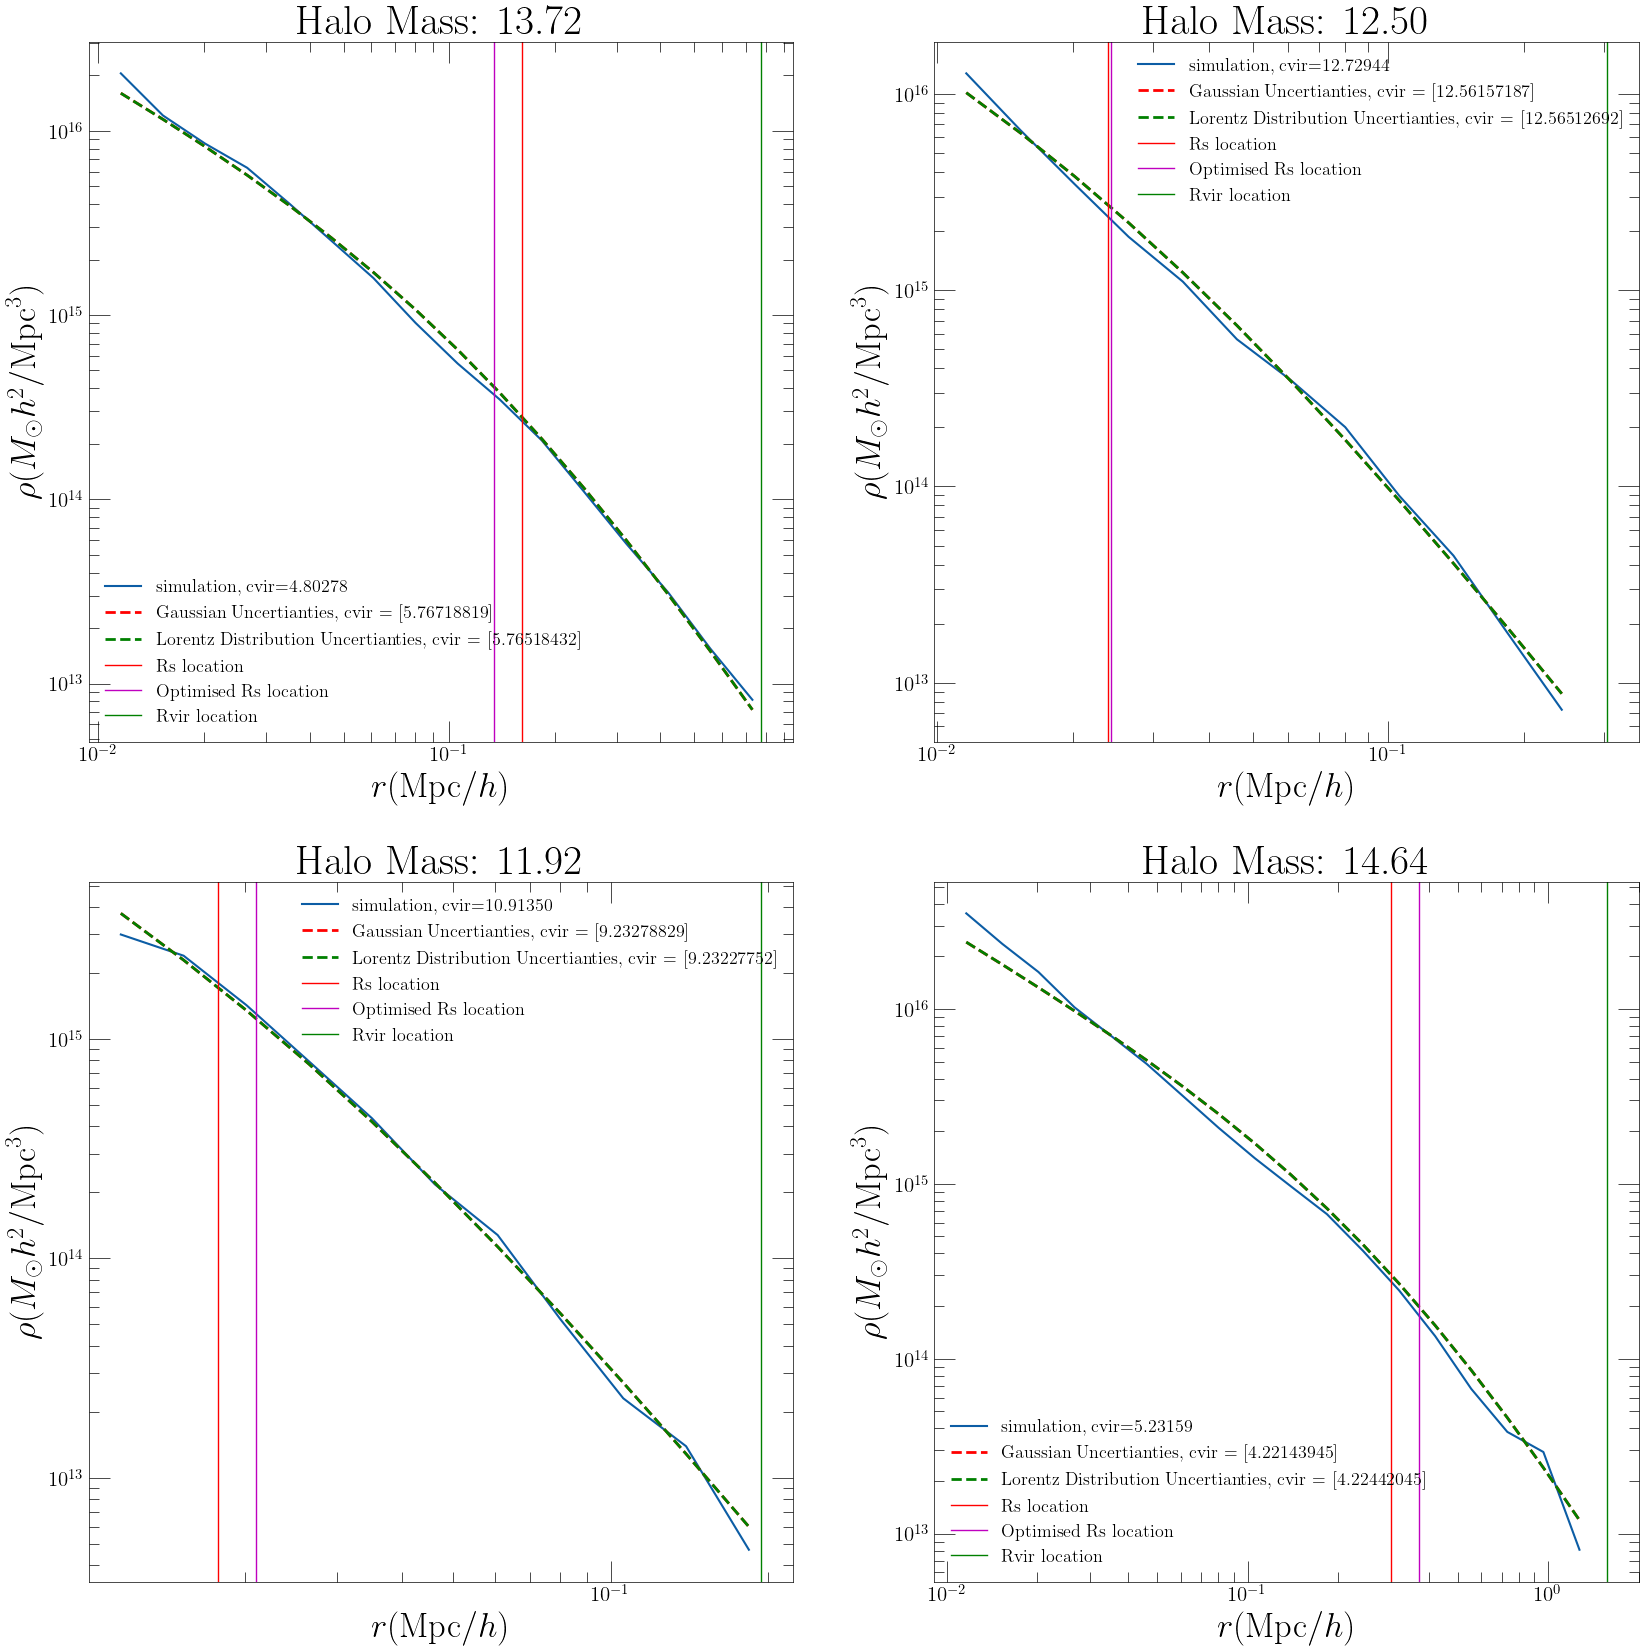
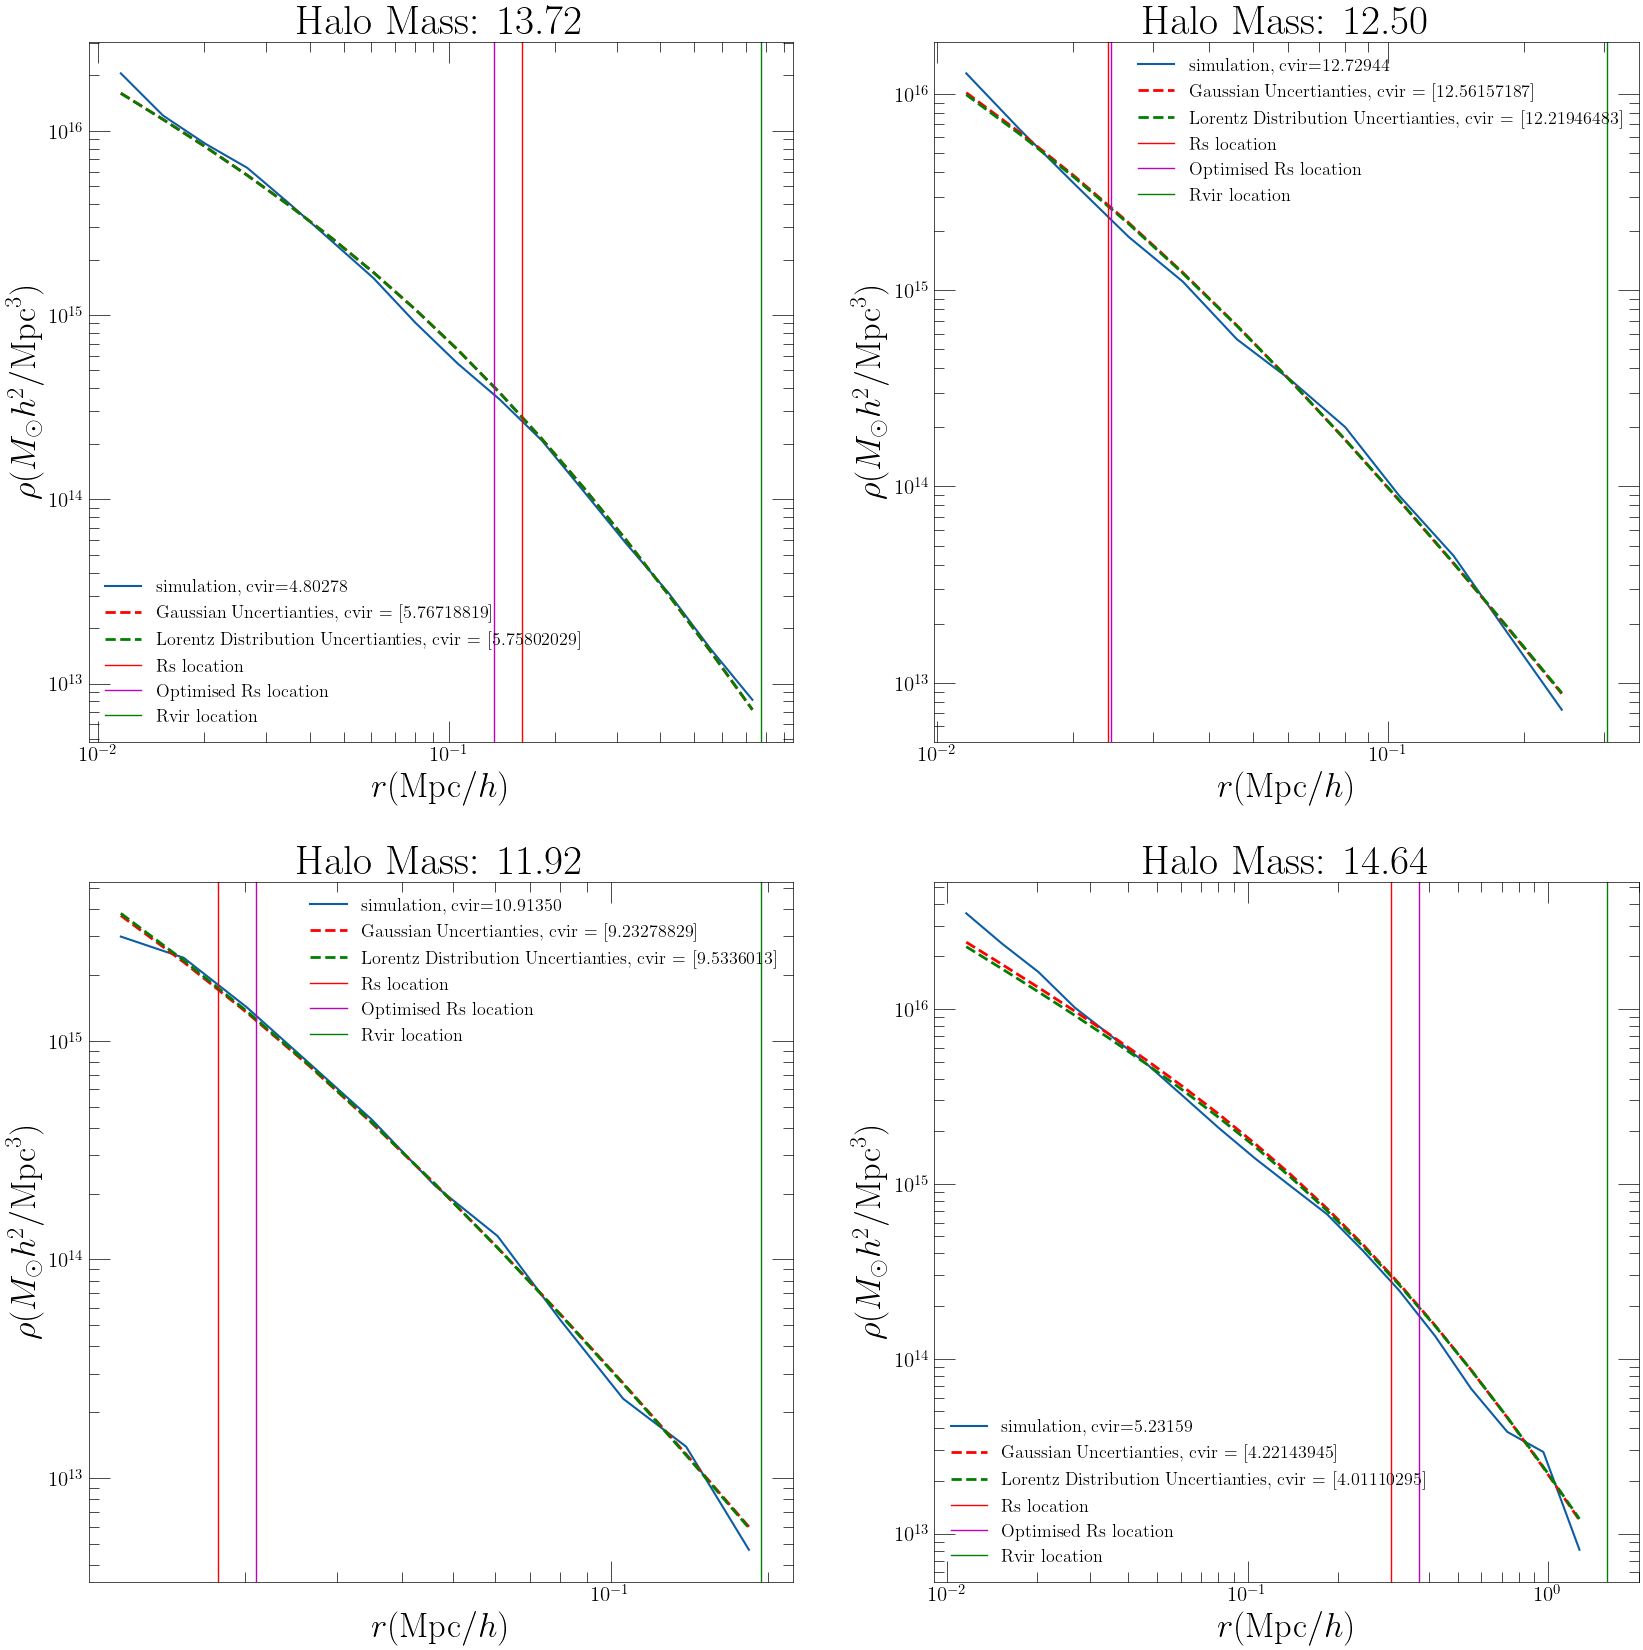
Update Density Plots

diff --git a/Bolshoi/NFWs.py b/Bolshoi/NFWs.py
@@ -1,7 +1,5 @@
 from loading import *
 
-sim_points = np.load(f"{CACHE_PATH}/simulation_points.npy")
-
 # Hard coding the desired locations to get
 # 4 ranges of halos
 locations = np.array([[2, 31, 114]])
@@ -15,33 +13,44 @@ for loc in range(len(locations)):
     Rvir = rvir[locations[loc]] / 1000
     Rs = rs[locations[loc]] / 1000
     cvir = Rvir / Rs
-    print('actual cvir', cvir)
-    print('actual rs', Rs)
+    # print('actual cvir', cvir)
+    # print('actual rs', Rs)
+
+    X, Y, Z = x[locations[loc]], y[locations[loc]], z[locations[loc]]
+    arr_points_2 = get_points(X, Y, Z, arr_points)
+
+    R = compute_R2(arrays(arr_points_2, X, Y, Z, 1))
+    # R = compute_R(X, Y, Z, arr_points_2)
+    pairs, _ = np.histogram(R, bins=RADIUS_BINS)
+    total_mass = np.array(pairs) * MASS * (100 / PERCENT)
+
+    volume = Volume(1)
+
+    obs = total_mass / volume
 
     mask = np.where(RADIUS < rvir[locations[loc]] / 1000)
-    obs = sim_points[loc, :]
     obs = obs[mask]
+
     c_inv = cinv(obs)
 
     # rad, rhos = rho_r(Rs, M, Rvir)
     # cos = cost(cvir, obs, c_inv, M, Rvir, 0)
 
     optres = iminuit.minimize(cost, [np.log(10)], args=(obs, c_inv, M, Rvir, 0))
-    print('gau cvir', np.exp(optres.x))
+    # print('gau cvir', np.exp(optres.x))
     oRs = Rvir / np.exp(optres.x)
-    print('gau rs', oRs)
+    # print('gau rs', oRs)
     # ocos = cost(optres.x, obs, c_inv, M, Rvir, 0)
     orad, orhos = rho_r(oRs, M, Rvir)
 
     optres2 = iminuit.minimize(cost, [np.log(10)], args=(obs, c_inv, M, Rvir, 1))
-    print('lor cvir', np.exp(optres2.x))
+    # print('lor cvir', np.exp(optres2.x))
     oRs2 = Rvir / np.exp(optres2.x)
-    print('lor rs', oRs2)
+    # print('lor rs', oRs2)
     # ocos2 = cost(optres2.x, obs, c_inv, M, Rvir, 1)
     orad2, orhos2 = rho_r(oRs2, M, Rvir)
 
-    # plt.plot(RADIUS, sim_points[loc, :], linewidth=0.5, label=f'simulation')
-    plt.plot(RADIUS[mask], sim_points[loc, :][mask], linewidth=1.5, label=f"simulation, cvir={cvir:.5f}")
+    plt.plot(RADIUS[mask], obs, linewidth=1.5, label=f"simulation, cvir={cvir:.5f}")
     # plt.plot(
     #     rad, rhos, linewidth=2, label=f"Bolshoi NFW $\\rightarrow$ {-0.5 * cos:.2f}"
     # )
@@ -50,14 +59,14 @@ for loc in range(len(locations)):
         orhos,
         'r--',
         linewidth=2,
-        label=f"Gaussian Uncertianties, cvir = {Rvir/oRs}",
+        label=f"Gaussian Uncertianties, cvir = {np.exp(optres.x)}",
     )
     plt.plot(
         orad2,
         orhos2,
         'g--',
         linewidth=2,
-        label=f"Lorentz Distribution Uncertianties, cvir = {Rvir/oRs2}",
+        label=f"Lorentz Distribution Uncertianties, cvir = {np.exp(optres2.x)}",
     )
     plt.axvline(x=Rs, color="r", label="Rs location")
     plt.axvline(x=oRs, color="m", label="Optimised Rs location")
